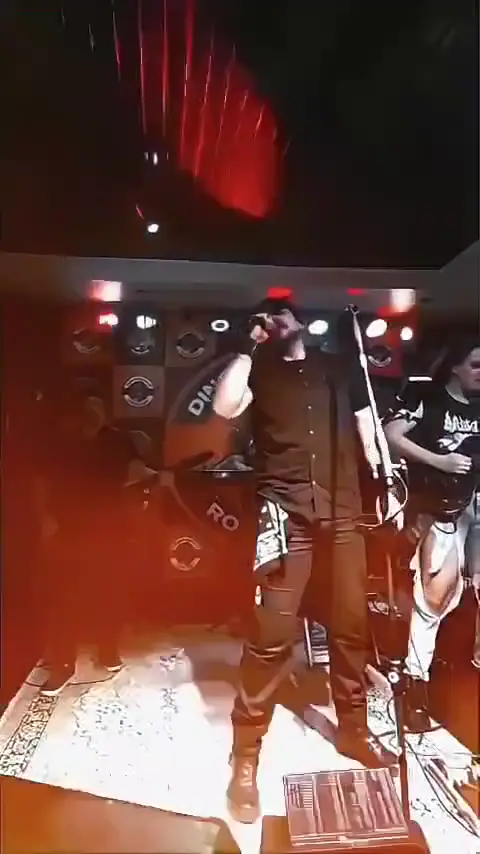
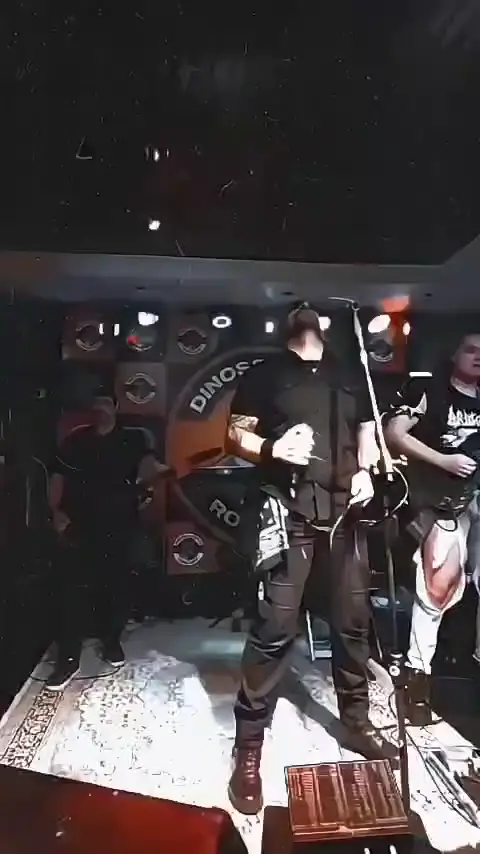
Fix: Modal

diff --git a/src/Components/BookingVideoCarousel/BookingVideoCarousel.tsx b/src/Components/BookingVideoCarousel/BookingVideoCarousel.tsx
@@ -12,11 +12,15 @@ type BookingVideoItem = {
 type BookingVideoCarouselProps = {
   videos: readonly BookingVideoItem[]
   variant?: 'default' | 'story'
+  autoAdvance?: boolean
+  nativeSwipe?: boolean
 }
 
 export function BookingVideoCarousel({
   videos,
   variant = 'default',
+  autoAdvance = true,
+  nativeSwipe = false,
 }: BookingVideoCarouselProps) {
   const {
     rowRef,
@@ -33,8 +37,9 @@ export function BookingVideoCarousel({
     handleTouchCancel,
     handlePlay,
     handlePlaybackStop,
-  } = useVideoCarousel(videos.length)
+  } = useVideoCarousel(videos.length, autoAdvance)
   const previousPoster = transition ? videos[transition.from]?.poster : undefined
+  const useNativeSwipe = nativeSwipe && isMobile
 
   return (
     <div className={styles.videoCarousel} data-variant={variant}>
@@ -42,6 +47,7 @@ export function BookingVideoCarousel({
         ref={rowRef}
         className={styles.videoRow}
         data-video-row
+        data-native-swipe={useNativeSwipe || undefined}
         role="region"
         aria-label="Apresentações ao vivo. Deslize para o próximo vídeo."
         onPointerEnter={(event) => {
@@ -59,11 +65,15 @@ export function BookingVideoCarousel({
         onPointerCancel={(event) => {
           if (event.pointerType !== 'touch') resumeAfterInteraction()
         }}
-        onTouchStart={handleTouchStart}
-        onTouchEnd={handleTouchEnd}
-        onTouchCancel={handleTouchCancel}
+        onTouchStart={useNativeSwipe ? undefined : handleTouchStart}
+        onTouchEnd={useNativeSwipe ? undefined : handleTouchEnd}
+        onTouchCancel={useNativeSwipe ? undefined : handleTouchCancel}
+        onScroll={useNativeSwipe ? (event) => {
+          const row = event.currentTarget
+          if (row.clientWidth) goTo(Math.round(row.scrollLeft / row.clientWidth))
+        } : undefined}
       >
-        {(isMobile ? videos.slice(activeIndex, activeIndex + 1) : videos).map(
+        {(isMobile && !useNativeSwipe ? videos.slice(activeIndex, activeIndex + 1) : videos).map(
           (video) => (
             <BookingVideo
               key={video.src}
@@ -72,7 +82,7 @@ export function BookingVideoCarousel({
               onPause={handlePlaybackStop}
               onEnded={handlePlaybackStop}
               transition={
-                variant === 'story' && isMobile && transition && previousPoster && video.poster
+                variant === 'story' && isMobile && !useNativeSwipe && transition && previousPoster && video.poster
                   ? {
                       previousPoster,
                       direction: transition.direction,
@@ -100,6 +110,11 @@ export function BookingVideoCarousel({
                   index === activeIndex ? styles.videoDotActive : undefined
                 }
                 onClick={() => {
+                  if (useNativeSwipe) {
+                    const row = rowRef.current
+                    row?.scrollTo({ left: index * row.clientWidth })
+                    return
+                  }
                   pauseForInteraction()
                   goTo(index)
                   resumeAfterInteraction()

diff --git a/src/Pages/SideRockPage/Pages/Summary/Content/bookingContent.ts b/src/Pages/SideRockPage/Pages/Summary/Content/bookingContent.ts
@@ -5,6 +5,12 @@ import isThisLoveVideo from "../../../../../assets/sideRock/media/booking/Is Thi
 import manInTheBoxVideo from '../../../../../assets/sideRock/media/booking/Man in The Box - Jump.mp4'
 import sweetChildVideo from "../../../../../assets/sideRock/media/booking/Sweet Child'O Mine na Harley-Davidson.mp4"
 import welcomeToTheJungleVideo from '../../../../../assets/sideRock/media/booking/Welcome to The Jungle na Harley-Davidson.mp4'
+import promotionalPoster from '../../../../../assets/sideRock/media/booking/promotionalVideo-first-frame.webp'
+import anniversaryPoster from '../../../../../assets/sideRock/media/booking/Participação Lenadro Dalle.webp'
+import isThisLovePoster from "../../../../../assets/sideRock/media/booking/Is This Love - Dinossauro's.webp"
+import manInTheBoxPoster from '../../../../../assets/sideRock/media/booking/Man in The Box - Jump.webp'
+import sweetChildPoster from "../../../../../assets/sideRock/media/booking/Sweet Child'O Mine na Harley-Davidson.webp"
+import welcomeToTheJunglePoster from '../../../../../assets/sideRock/media/booking/Welcome to The Jungle na Harley-Davidson.webp'
 
 export const SIDE_ROCK_BOOKING = {
   manager: 'Vanessa',
@@ -14,13 +20,14 @@ export const SIDE_ROCK_BOOKING = {
   videos: [
     {
       src: promotionalVideo,
+      poster: promotionalPoster,
       title: 'Vídeo promocional',
       href: 'https://www.instagram.com/reel/DHl9VzfxAWq/',
     },
-    { src: welcomeToTheJungleVideo, title: 'Welcome to the Jungle' },
-    { src: sweetChildVideo, title: 'Sweet Child O’ Mine' },
-    { src: anniversaryVideo, title: 'Aniversário' },
-    { src: manInTheBoxVideo, title: 'Man in the Box' },
-    { src: isThisLoveVideo, title: 'Is This Love' },
+    { src: welcomeToTheJungleVideo, poster: welcomeToTheJunglePoster, title: 'Welcome to the Jungle' },
+    { src: sweetChildVideo, poster: sweetChildPoster, title: 'Sweet Child O’ Mine' },
+    { src: anniversaryVideo, poster: anniversaryPoster, title: 'Aniversário' },
+    { src: manInTheBoxVideo, poster: manInTheBoxPoster, title: 'Man in the Box' },
+    { src: isThisLoveVideo, poster: isThisLovePoster, title: 'Is This Love' },
   ],
 } as const

diff --git a/src/Components/BookingVideoCarousel/Hooks/useVideoCarousel.ts b/src/Components/BookingVideoCarousel/Hooks/useVideoCarousel.ts
@@ -14,7 +14,7 @@ const RESUME_AFTER_INTERACTION_MS = 1800
 const SWIPE_MIN_DISTANCE_PX = 48
 const NATIVE_CONTROLS_HEIGHT_PX = 64
 
-export function useVideoCarousel(count: number) {
+export function useVideoCarousel(count: number, autoAdvance: boolean) {
   const isMobile = useMediaQuery(`(max-width: ${VIEWPORT_MOBILE_MAX_PX}px)`)
   const reducedMotion = useMediaQuery('(prefers-reduced-motion: reduce)')
   const rowRef = useRef<HTMLDivElement>(null)
@@ -53,6 +53,7 @@ export function useVideoCarousel(count: number) {
 
   useEffect(() => {
     if (
+      !autoAdvance ||
       count < 2 ||
       !isMobile ||
       reducedMotion ||
@@ -68,6 +69,7 @@ export function useVideoCarousel(count: number) {
     return () => window.clearInterval(interval)
   }, [
     activeIndex,
+    autoAdvance,
     count,
     goTo,
     isMobile,

diff --git a/src/Components/BookingVideoCarousel/BookingVideoCarousel.module.css b/src/Components/BookingVideoCarousel/BookingVideoCarousel.module.css
@@ -95,6 +95,32 @@
     box-sizing: border-box;
   }
 
+  .videoRow[data-native-swipe] {
+    display: flex;
+    gap: 0;
+    overflow-x: auto;
+    scroll-snap-type: x mandatory;
+    scrollbar-width: none;
+    overscroll-behavior-inline: contain;
+  }
+
+  .videoRow[data-native-swipe]::-webkit-scrollbar {
+    display: none;
+  }
+
+  .videoRow[data-native-swipe] .videoCard {
+    flex: 0 0 100%;
+    scroll-snap-align: start;
+    scroll-snap-stop: always;
+  }
+
+  .videoCarousel:has([data-native-swipe]) .videoPagination button {
+    width: clamp(0.65rem, 3vw, 1.65rem);
+    height: 1.5rem;
+    background-clip: content-box;
+    padding-block: 0.64rem;
+  }
+
   .videoCarousel[data-variant='default'] .videoCard {
     animation: videoFadeIn 180ms ease-out;
   }

diff --git a/src/Pages/SideRockPage/Pages/Gallery/GalleryLightbox.tsx b/src/Pages/SideRockPage/Pages/Gallery/GalleryLightbox.tsx
@@ -159,7 +159,8 @@ export function GalleryLightbox({
   }
 
   function onPointerDown(event: ReactPointerEvent<HTMLDivElement>) {
-    if (!canNavigate || destination || !event.isPrimary || event.button !== 0) return
+    if (!canNavigate || destination || !event.isPrimary) return
+    if (event.pointerType === 'mouse' && event.button !== 0) return
     event.currentTarget.setPointerCapture(event.pointerId)
     pointerStart.current = { id: event.pointerId, x: event.clientX, y: event.clientY }
     setDragging(true)

diff --git a/src/Components/BookingVideoCarousel/Components/BookingVideo/BookingVideo.tsx b/src/Components/BookingVideoCarousel/Components/BookingVideo/BookingVideo.tsx
@@ -40,7 +40,7 @@ export function BookingVideo({
           onPause={onPause}
           onEnded={onEnded}
         >
-          <source src={poster ? src : `${src}#t=0.001`} type="video/mp4" />
+          <source src={src} type="video/mp4" />
         </video>
         {transition && poster ? (
           <VideoSlideTransition

diff --git a/src/Pages/SideRockPage/Pages/Summary/Components/SummaryLive/SummaryLive.tsx b/src/Pages/SideRockPage/Pages/Summary/Components/SummaryLive/SummaryLive.tsx
@@ -50,6 +50,8 @@ export function SummaryLive() {
           <BookingVideoCarousel
             videos={SIDE_ROCK_BOOKING.videos}
             variant="story"
+            autoAdvance={false}
+            nativeSwipe
           />
         </ScrollReveal>
       </div>

diff --git a/src/Pages/SideRockPage/Pages/Gallery/GalleryLightbox.module.css b/src/Pages/SideRockPage/Pages/Gallery/GalleryLightbox.module.css
@@ -80,7 +80,7 @@
   grid-row: 1;
   min-width: 0;
   overflow: clip;
-  touch-action: pan-y pinch-zoom;
+  touch-action: pinch-zoom;
   user-select: none;
 }
 
